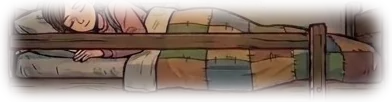
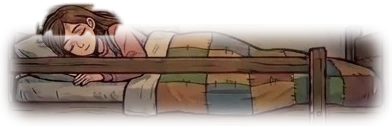
Chambre : cheveux d'Emma et Léo entiers, traduction de la pub Second souffle

diff --git a/piece.js b/piece.js
@@ -694,7 +694,7 @@ var LAMPES_PIECE = {};
 var LITS_CHAMBRE = { haut:[330, 250, 722, 352, "emma"], bas:[338, 432, 722, 562, "leo"], gauche:[98, 495, 452, 790, "papa"], droite:[628, 495, 992, 790, "maman"] }; // ordre de pose : du fond vers le devant
 var LIT_DE = { "Emma":"haut", "Léo":"bas", "Papa":"gauche", "Maman":"droite", "Sam":"haut", "Nora":"bas", "Yanis":"gauche", "Inès":"droite" };
 var DORMEUR_IMG = { "Emma":"emma", "Léo":"leo", "Papa":"papa", "Maman":"maman", "Sam":"sam", "Nora":"nora", "Yanis":"yanis", "Inès":"ines" };
-var ZONE_DORMEUR = { "Sam":[330, 212, 722, 352] }; // Sam : un peu plus haut, sinon ses cheveux étaient coupés
+var ZONE_DORMEUR = { "Sam":[330, 212, 722, 352], "Emma":[330, 226, 722, 352], "Léo":[338, 387, 722, 562] }; // Emma et Léo : découpe agrandie vers le haut pour leurs cheveux (2026-11-15) // Sam : un peu plus haut, sinon ses cheveux étaient coupés
 var FAMILLE_ORIGINE = ["Papa", "Maman", "Léo", "Emma"];
 function enSortie(x){ var i = G.m.indexOf(x); return !!(G.exp && G.exp.equipe && G.exp.equipe.indexOf(i) >= 0); }
 function roleDormeur(y){ return y.r || y.nom; }

diff --git a/site/piece.js b/site/piece.js
@@ -694,7 +694,7 @@ var LAMPES_PIECE = {};
 var LITS_CHAMBRE = { haut:[330, 250, 722, 352, "emma"], bas:[338, 432, 722, 562, "leo"], gauche:[98, 495, 452, 790, "papa"], droite:[628, 495, 992, 790, "maman"] }; // ordre de pose : du fond vers le devant
 var LIT_DE = { "Emma":"haut", "Léo":"bas", "Papa":"gauche", "Maman":"droite", "Sam":"haut", "Nora":"bas", "Yanis":"gauche", "Inès":"droite" };
 var DORMEUR_IMG = { "Emma":"emma", "Léo":"leo", "Papa":"papa", "Maman":"maman", "Sam":"sam", "Nora":"nora", "Yanis":"yanis", "Inès":"ines" };
-var ZONE_DORMEUR = { "Sam":[330, 212, 722, 352] }; // Sam : un peu plus haut, sinon ses cheveux étaient coupés
+var ZONE_DORMEUR = { "Sam":[330, 212, 722, 352], "Emma":[330, 226, 722, 352], "Léo":[338, 387, 722, 562] }; // Emma et Léo : découpe agrandie vers le haut pour leurs cheveux (2026-11-15) // Sam : un peu plus haut, sinon ses cheveux étaient coupés
 var FAMILLE_ORIGINE = ["Papa", "Maman", "Léo", "Emma"];
 function enSortie(x){ var i = G.m.indexOf(x); return !!(G.exp && G.exp.equipe && G.exp.equipe.indexOf(i) >= 0); }
 function roleDormeur(y){ return y.r || y.nom; }

diff --git a/lang-en.js b/lang-en.js
@@ -1916,3 +1916,8 @@ Object.assign(TRAD_ECRAN, {
   "Réparer · solidité {#} → {#}": "Repair · durability {#} → {#}", "Réparer": "Repair",
   "Pas encore de poule. On en trouve au": "No chickens yet. You can find some in the", "chez": "at", "le brocanteur, et parfois une poule égarée arrive le matin": "the junk dealer’s, and sometimes a stray chicken shows up in the morning"
 });
+Object.assign(TRAD_ECRAN, {
+  "Second souffle : +{#}": "Second wind: +{#}", "pour toute la famille": "for the whole family",
+  "Regarder une courte pub · encore {#} aujourd’hui": "Watch a short ad · {#} left today"
+});
+Object.assign(TRAD_ECRAN, { "Second souffle : +{#} ⚡ pour toute la famille": "Second wind: +{#} ⚡ for the whole family", "Second souffle: +{#}": "Second wind: +{#}" });

diff --git a/site/lang-en.js b/site/lang-en.js
@@ -1916,3 +1916,8 @@ Object.assign(TRAD_ECRAN, {
   "Réparer · solidité {#} → {#}": "Repair · durability {#} → {#}", "Réparer": "Repair",
   "Pas encore de poule. On en trouve au": "No chickens yet. You can find some in the", "chez": "at", "le brocanteur, et parfois une poule égarée arrive le matin": "the junk dealer’s, and sometimes a stray chicken shows up in the morning"
 });
+Object.assign(TRAD_ECRAN, {
+  "Second souffle : +{#}": "Second wind: +{#}", "pour toute la famille": "for the whole family",
+  "Regarder une courte pub · encore {#} aujourd’hui": "Watch a short ad · {#} left today"
+});
+Object.assign(TRAD_ECRAN, { "Second souffle : +{#} ⚡ pour toute la famille": "Second wind: +{#} ⚡ for the whole family", "Second souffle: +{#}": "Second wind: +{#}" });

diff --git a/site/sw.js b/site/sw.js
@@ -4,7 +4,7 @@
    IMPORTANT : à chaque mise à jour du jeu, changer VERSION (sinon les
    téléphones garderaient l'ancienne copie).
    ===================================================================== */
-var VERSION = "survival-20261115-1609";
+var VERSION = "survival-20261115-1616";
 var FICHIERS = [
   "./",
   "index.html",

diff --git a/CLAUDE.md b/CLAUDE.md
@@ -481,6 +481,7 @@ Réparer depuis l'emplacement (2026-11-15, demande de Fabien) : dans la fenêtre
 Barricades de la réserve refaites (2026-11-15, retour de Fabien : planches coupées) : une seule découpe par niveau (`images/barricades/reserve-1|2|3.webp`, 415 × 323, zone 609, 24, 1024, 347) qui suit la forme des planches (différence avec la pièce, intérieur bouché, bord adouci) au lieu de deux rectangles ; à gauche elle s'arrête au-dessus des bocaux (y 238). Les anciens fichiers `reserve-N-1/2.webp` sont retirés
 Zombies coupés (2026-11-15, retour de Fabien) : sur les planches Gemini d'origine, Costaud, Gonflé, Rampant, Défenseur, Soldat, Coureur et Hurleur touchent le bord de leur case (bras, nuage, mains, barricade coupés net). En attendant de nouvelles images, leurs côtés coupés sont estompés (fondu de 13 % de la largeur, 22 % pour le nuage du Gonflé ; originaux dans `images/sources/zombies-avant-fondu/`). Prompt pour les redessiner avec de la marge : `images/sources/prompts-zombies-marges-2026-11-15.md`
 Zombies redessinés avec de la marge (2026-11-15, Gemini, d'après `images/sources/prompts-zombies-marges-2026-11-15.md`) : Hurleur, Gonflé, Rampant, Défenseur, Soldat, Coureur, Costaud remplacent les images coupées (`images/zombies/<id>.webp`, 480 px de haut, Rampant 300 ; sources `images/sources/zombie-<id>-v2-gemini.jpg`). Détourage : fond vert relié aux bords (vert « en trop » g − max(r, b)), trous de vert pur retirés, reflet vert enlevé sur les bords ; le Costaud était sur fond beige (fond clair peu saturé relié aux bords, ombre au sol retirée). Les ondes du Hurleur (vert pâle, perdues au détourage) sont reposées en crème avec un contour sombre. Le portrait du Gonflé (guide, panneau PC) garde l'ancien dessin avec t-shirt
+Cheveux d'Emma et Léo au lit (2026-11-15, retour de Fabien : le haut de la tête était coupé) : leurs découpes de la chambre montent plus haut (`ZONE_DORMEUR` Emma 330, 226, 722, 352 ; Léo 338, 387, 722, 562), le haut de la tête repris dans l'image Gemini par différence avec la pièce (seulement ce qui touche le dormeur ; pour Emma, limité à une ellipse autour des cheveux car les cadres du mur de l'image Gemini touchent sa tête). Anciennes découpes : `images/sources/chambre-emma|leo-avant-cheveux.webp`. Papa, Maman et les recrues vérifiés : entiers. Traduction de la pub « Second souffle »
 Décor des assauts : la cour fortifiée (`piece-bastion-cour.webp`) sert de fond au combat pendant un assaut (ui.js, `openCombat`).
 Bilan de difficulté (2026-11-10, simulation après tous les ajouts) : Malin vit 85 jours (médiane, 10 % ≤ 68, 90 % ≤ 104, max 122), 96 % atteignent le jour 60, 79 % le jour 75, seulement 16 % le jour 100 ; Naïf 10 jours (1re mort au jour 5). Causes de mort de Malin : attaques de nuit, puis soif, puis faim. Assauts (2 membres, robot Auto, 200 essais) : bastion faible = 100 % de victoires ; remparts 5 + armurerie 3 + cible au jour 200 = 0 % (7 % avec gilets, casques, boucliers et camion au maximum) : courbe trop raide, à lisser. Jour d'accès aux clans : 100 jugé trop long.
 Réglages du 2026-11-10 (choix de Fabien : 30 jours) :
